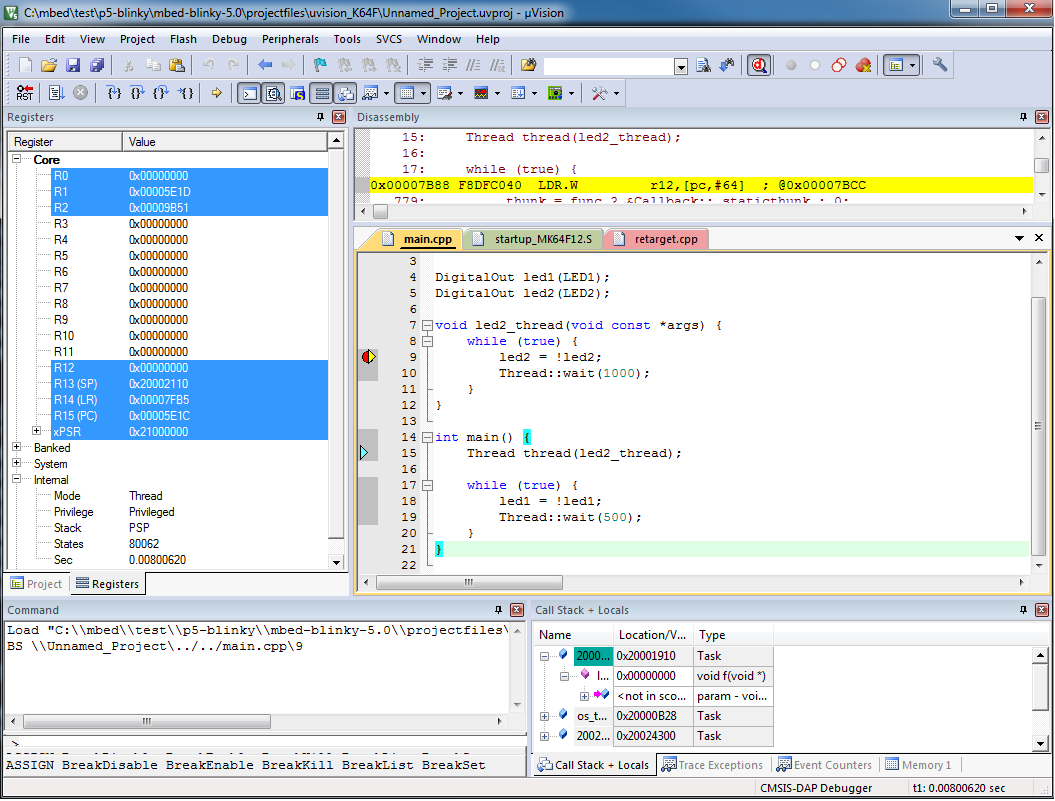
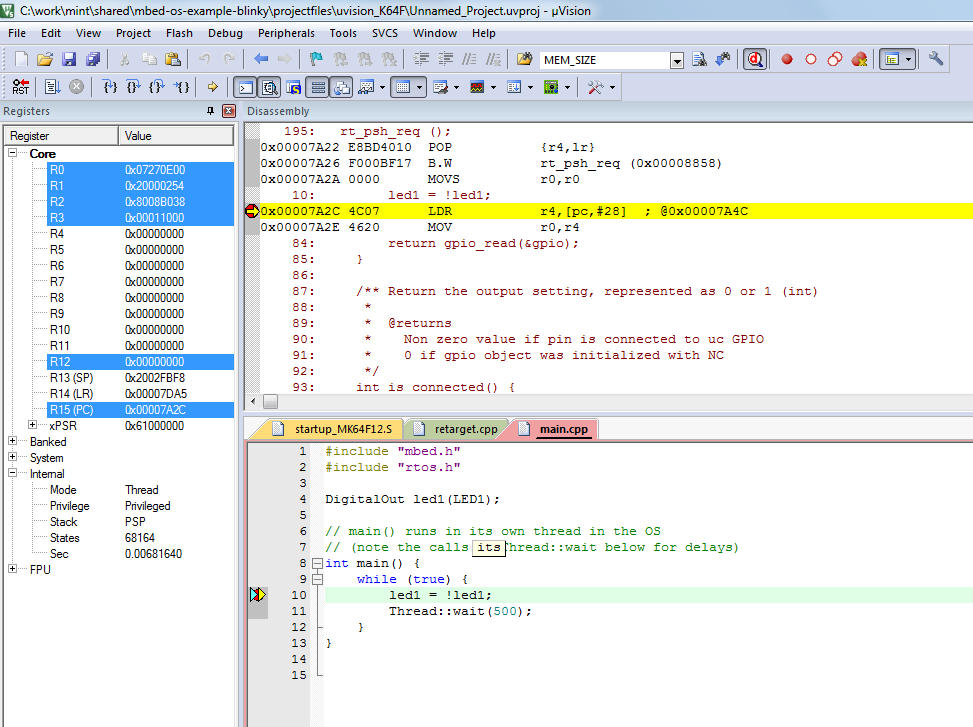
Update example to https://github.com/ARMmbed/mbed-os-example-blinky at tag mbed-os-5.1.0-rc3

diff --git a/main.cpp b/main.cpp
@@ -2,20 +2,13 @@
 #include "rtos.h"
 
 DigitalOut led1(LED1);
-DigitalOut led2(LED2);
 
-void led2_thread(void const *args) {
-    while (true) {
-        led2 = !led2;
-        Thread::wait(1000);
-    }
-}
-
+// main() runs in its own thread in the OS
+// (note the calls to Thread::wait below for delays)
 int main() {
-    Thread thread(led2_thread);
-
     while (true) {
         led1 = !led1;
         Thread::wait(500);
     }
 }
+

diff --git a/README.md b/README.md
@@ -41,7 +41,7 @@ Allocated Stack: unknown
 Total Static RAM memory (data + bss): 7168 bytes
 Total RAM memory (data + bss + heap + stack): 7168 bytes
 Total Flash memory (text + data + misc): 43402 bytes
-Image: .\.build\K64F\ARM\mbed-os-example-blinky.bin             
+Image: .\.build\K64F\ARM\mbed-os-example-blinky.bin
 ```
 
 ### Program your board
@@ -59,7 +59,7 @@ Congratulations if you managed to complete this test!
 From the command line, run the following command:
 
 ```
-mbed export -m K64F -i uvision -n mbed-os-example-blinky
+mbed export -m K64F -i uvision
 ```
 
 You should see the following output:
